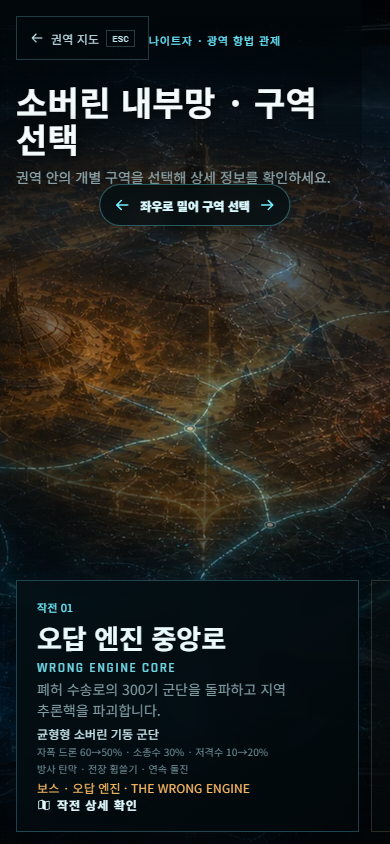
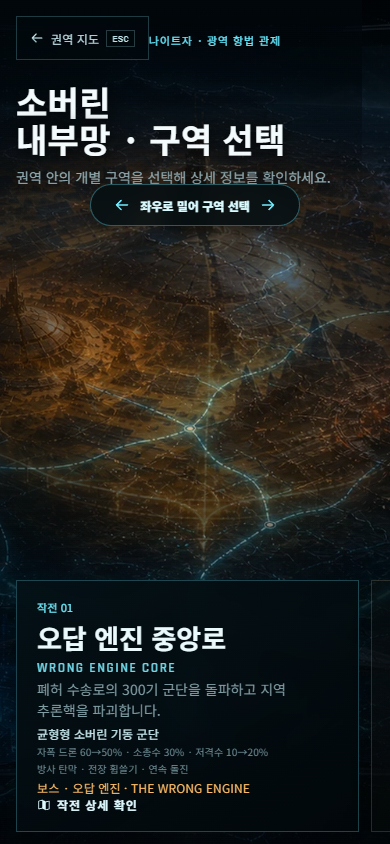
feat: separate desktop and mobile responsive ui

diff --git a/game/src/styles.css b/game/src/styles.css
@@ -5489,7 +5489,7 @@ kbd {
   .region-select-screen.is-cluster-map .region-select-heading h1 { font-size: 31px; }
   .region-map-hotspot { width: min(230px, 64vw); }
   .region-sortie-dialog { inset: max(8px, env(safe-area-inset-top)) 8px max(8px, env(safe-area-inset-bottom)); width: auto; max-width: none; overflow-y: auto; }
-  .region-sortie-layout { display: block; }
+  .region-sortie-layout { display: block; padding-bottom: 86px; }
   .region-sortie-command-footer { position: sticky; bottom: 0; padding-top: 9px; background: rgba(2, 10, 14, 0.96); }
   .region-sortie-command-footer .region-sortie-launch { width: 100%; min-height: 62px; }
 }
@@ -7505,7 +7505,7 @@ kbd,
 .region-sortie-intel { display: grid; margin: 22px 0 0; gap: 7px; }
 .region-sortie-intel > div { display: grid; min-height: 44px; padding: 9px 12px; grid-template-columns: 105px minmax(0, 1fr); align-items: center; gap: 12px; border-left: 2px solid rgba(106, 231, 250, 0.54); background: rgba(89, 211, 231, 0.055); }
 .region-sortie-intel dt { color: #71939a; font-size: 11px; }
-.region-sortie-intel dd { margin: 0; color: #e1eff2; font-size: 12px; line-height: 1.45; text-align: right; }
+.region-sortie-intel dd { margin: 0; color: #e1eff2; font-size: 12px; line-height: 1.45; text-align: right; word-break: keep-all; overflow-wrap: normal; }
 .region-sortie-rewards { display: flex; margin-top: 16px; padding: 11px 12px; flex-wrap: wrap; align-items: center; gap: 7px 12px; border: 1px solid rgba(255, 194, 100, 0.22); background: rgba(87, 52, 11, 0.2); }
 .region-sortie-rewards small { width: 100%; color: #bd9459; font-size: 10px; }
 .region-sortie-rewards span { color: #ffd18b; font-size: 12px; font-weight: 700; }
@@ -7850,7 +7850,7 @@ kbd,
 
 .region-sortie-briefing h2 { margin: 0; font-size: clamp(34px, 4vw, 58px); line-height: 0.98; letter-spacing: -0.035em; }
 .region-sortie-briefing > p { margin: 10px 0 0; color: #b8cbd0; font-size: 14px; line-height: 1.55; word-break: keep-all; }
-.region-sortie-briefing .region-sortie-intel { margin-top: 15px; grid-template-columns: repeat(2, minmax(0, 1fr)); }
+.region-sortie-briefing .region-sortie-intel { margin-top: 15px; grid-template-columns: 1fr; }
 .region-sortie-briefing .region-sortie-intel > div { min-height: 48px; grid-template-columns: 82px minmax(0, 1fr); }
 .region-sortie-briefing .region-sortie-intel > div:last-child:nth-child(odd) { grid-column: 1 / -1; }
 .region-sortie-briefing .region-sortie-rewards { margin-top: auto; }
@@ -8386,17 +8386,22 @@ kbd,
   .base-menu-button small { font-size: 10px !important; }
   .base-menu-button b { font-size: 14px; }
   .base-primary-actions { right: 10px; bottom: max(10px, env(safe-area-inset-bottom)); left: 10px; width: auto; grid-template-columns: 1fr 1fr; gap: 8px; }
+  .base-defense-action { grid-column: 1 / -1; }
   .base-character-action,
   .base-sortie-action,
   .base-defense-action { min-height: 74px; padding: 10px 12px; }
+  .base-character-action > svg:last-child,
+  .base-sortie-action > svg:last-child,
+  .base-defense-action > svg:last-child { display: none; }
   .base-primary-actions small,
   .base-defense-action small { font-size: 10px !important; }
   .base-primary-actions b,
-  .base-defense-action b { font-size: 14px; }
+  .base-defense-action b { font-size: 14px; white-space: nowrap; word-break: keep-all; }
   .home-base-screen .base-objective { display: none; }
 
   .region-select-screen.is-cluster-map .region-select-heading { width: calc(100% - 28px); margin-left: 14px; padding: max(16px, calc(env(safe-area-inset-top) + 10px)) 12px 13px; }
-  .region-select-screen.is-cluster-map .region-select-heading h1 { font-size: 34px; }
+  .region-select-screen .region-select-heading h1 { font-size: 34px; word-break: keep-all; overflow-wrap: normal; }
+  .region-select-screen .region-select-heading h1 > span { white-space: nowrap; }
   .region-map-hotspot { left: clamp(136px, var(--map-x), calc(100% - 136px)); top: clamp(190px, var(--map-y), calc(100% - 92px)); width: min(258px, 68vw); min-height: 86px; padding: 12px 34px 12px 60px; }
   .region-map-hotspot > i:first-child { left: -21px; width: 48px; height: 48px; }
   .region-map-hotspot > i:first-child::after { inset: 18px; }
@@ -8418,13 +8423,23 @@ kbd,
   .region-select-screen:not(.is-cluster-map) .region-card > b { font-size: 12px; }
   .region-select-screen:not(.is-cluster-map) .region-threat em { font-size: 10px; }
 
-  .region-sortie-dialog { inset: max(8px, env(safe-area-inset-top)) 8px max(8px, env(safe-area-inset-bottom)); width: auto; max-width: none; padding: 14px 14px max(14px, env(safe-area-inset-bottom)); overflow-y: auto; }
-  .region-sortie-layout { display: block; }
+  .region-sortie-dialog { position: fixed; inset: max(8px, env(safe-area-inset-top)) 8px max(8px, env(safe-area-inset-bottom)); width: auto; max-width: none; margin-left: 0; padding: 14px 14px max(14px, env(safe-area-inset-bottom)); overflow-y: auto; }
+  .region-sortie-layout { display: block; padding-bottom: 86px; }
   .campaign-shell .region-sortie-briefing h2 { font-size: 34px; }
   .campaign-shell .region-sortie-briefing > p { display: block; font-size: 14px; line-height: 1.5; -webkit-line-clamp: unset; }
+  .region-sortie-briefing .region-sortie-intel { grid-template-columns: 1fr; gap: 7px; }
+  .region-sortie-briefing .region-sortie-intel > div,
+  .region-sortie-briefing .region-sortie-intel > div:last-child:nth-child(odd) { min-height: 52px; padding: 9px 10px; grid-column: auto; grid-template-columns: 86px minmax(0, 1fr); gap: 10px; }
   .campaign-shell .region-sortie-intel dt,
   .campaign-shell .region-sortie-intel dd { font-size: 12px; }
-  .region-sortie-command-footer { position: sticky; bottom: 0; padding-top: 10px; background: rgba(2, 10, 14, 0.96); }
+  .campaign-shell .region-sortie-intel dd { word-break: keep-all; overflow-wrap: normal; }
+  .sortie-character-options { grid-template-columns: 1fr; }
+  .sortie-character-card strong,
+  .sortie-character-card p { word-break: keep-all; overflow-wrap: normal; }
+  .region-sortie-layout .sortie-weapon-card div em { display: none; }
+  .region-sortie-layout .sortie-weapon-card div strong { white-space: nowrap; word-break: keep-all; }
+  .region-sortie-command-footer { position: sticky; bottom: 0; display: block; padding-top: 10px; background: rgba(2, 10, 14, 0.96); }
+  .region-sortie-command-footer > span { display: none; }
   .region-sortie-command-footer .region-sortie-launch { width: 100%; min-height: 62px; font-size: 15px; }
 }
 
@@ -8464,9 +8479,11 @@ kbd,
     top: max(184px, calc(env(safe-area-inset-top) + 174px));
     left: 50%;
     display: flex;
+    min-width: 210px;
     min-height: 42px;
     padding: 8px 14px;
     align-items: center;
+    justify-content: center;
     gap: 10px;
     border: 1px solid rgba(102, 231, 249, 0.34);
     border-radius: 999px;
@@ -8475,6 +8492,7 @@ kbd,
     box-shadow: 0 8px 24px rgba(0, 0, 0, 0.42);
     font-size: 12px;
     font-weight: 800;
+    white-space: nowrap;
     transform: translateX(-50%);
     pointer-events: none;
     backdrop-filter: blur(8px);
@@ -8505,4 +8523,30 @@ kbd,
   .region-sortie-close { min-height: 48px; padding: 9px 12px; font-size: 13px; }
   .region-sortie-close kbd { display: none; }
   .region-sortie-dialog { overscroll-behavior: contain; -webkit-overflow-scrolling: touch; }
+}
+
+@media (max-width: 340px) and (orientation: portrait) {
+  .region-select-screen .region-select-heading h1 { font-size: 31px; }
+}
+
+/* Fine-pointer desktop guard -------------------------------------------
+   Short desktop windows may compact geometry, but never inherit phone
+   typography. This keeps PC and touch layouts as independent UI systems. */
+@media (min-width: 981px) and (max-height: 640px) and (pointer: fine) {
+  .campaign-shell.campaign-shell small { font-size: max(9px, 0.62rem); }
+  .campaign-shell.campaign-shell p,
+  .campaign-shell.campaign-shell li,
+  .campaign-shell.campaign-shell dt,
+  .campaign-shell.campaign-shell dd { font-size: max(11px, 0.72rem); line-height: 1.42; }
+  .campaign-shell.campaign-shell button { font-size: max(11px, 0.72rem); }
+  .campaign-back { min-height: 38px; padding: 7px 11px; }
+  .region-sortie-close { min-height: 36px; font-size: 11px; }
+  .region-sortie-briefing > p { font-size: 11px; line-height: 1.42; }
+  .region-sortie-briefing .region-sortie-intel dt,
+  .region-sortie-briefing .region-sortie-intel dd { font-size: 10px; }
+  .region-sortie-layout .sortie-weapon-card div small,
+  .region-sortie-layout .sortie-weapon-card div em,
+  .region-sortie-layout .sortie-weapon-card footer { font-size: 9px; }
+  .region-sortie-layout .sortie-weapon-card div strong { font-size: 14px; }
+  .region-sortie-command-footer > span { font-size: 10px; }
 }

diff --git a/game/src/ui/campaign/CampaignScreens.jsx b/game/src/ui/campaign/CampaignScreens.jsx
@@ -843,7 +843,7 @@ export function RegionSelectScreen({ regions, clusters = [], campaign, assets, w
       <header className="region-select-heading">
         <button type="button" className="campaign-back" data-ui-sound="uiClose" onClick={selectedCluster ? () => setSelectedClusterId(null) : onBack}><ArrowLeft weight="bold" /> {selectedCluster ? "권역 지도" : "기지"} <kbd>ESC</kbd></button>
         <small>나이트자 · 광역 항법 관제</small>
-        <h1>{selectedCluster ? `${selectedCluster.koreanName} · 구역 선택` : "작전 권역 선택"}</h1>
+        <h1>{selectedCluster ? <>{selectedCluster.koreanName}<span> · 구역 선택</span></> : "작전 권역 선택"}</h1>
         <p>{selectedCluster ? "권역 안의 개별 구역을 선택해 상세 정보를 확인하세요." : "먼저 3개 구역이 묶인 상위 권역을 선택하세요."}</p>
       </header>
       {selectedCluster && !selectedRegion && (

diff --git a/game/AGENTS.md b/game/AGENTS.md
@@ -62,6 +62,7 @@ Build app UI in `src/`. Keep `.openai/hosting.json`, `worker/index.js`, `scripts
 - On phone portrait, movement owns the otherwise empty combat surface while buttons/dialogs remain excluded from joystick capture. Level-up and result overlays must fit within `100dvh` using bounded internal scrolling; reward cards become a readable vertical list, result actions may stack, and narrative advancement keeps a visible Korean label with at least a 50px touch height. Keep the HP bar and six compact active controls above the bottom safe area, and keep the tactical minimap below the top objective without covering combat buttons.
 - Phone portrait menus are authored surfaces, never scaled desktop compositions. Keep the title at 58px or larger, primary touch targets at least 44px high, save slots in one readable column, world-map hotspots at least 250px wide with 18px or larger names, and regional detail cards as horizontally snapping single-card pages. Portrait combat fills `100dvh` without letterboxing, uses a presentation-only 1.12 route/1.06 boss camera factor, keeps the objective at 16px or larger, and shows the Korean ability names beneath the bottom icons. These presentation values must not alter the deterministic simulation, collision, spawn, aim, or damage rules.
 - Phone portrait must explain its own touch controls instead of showing WASD/mouse copy. Keep a visible 48px-or-larger pause control beside sound, single-column pause actions with unbroken Korean labels, and an explicit swipe affordance above horizontally snapping regional cards. Optional vibration feedback may acknowledge dash, tag, active skills, pause, and resume only on coarse-pointer devices; unsupported browsers must remain a silent no-op.
+- Treat fine-pointer desktop and coarse-pointer phone layouts as independent authored interfaces, not one height-scaled composition. A short desktop window may compact spacing but must retain readable desktop typography; height-only media queries must not reduce PC campaign text to phone-scale labels. On portrait phones, keep Korean headings and action names at word boundaries, use `2 + 1 full-width` lobby commands, render sortie intel and the unlocked-character list in one column, and keep the sticky sortie confirmation at full panel width. The mobile sortie dialog is viewport-fixed so horizontal card scrolling can never displace it outside the safe area.
 - Runtime raster assets must stay display-size optimized. Preserve full-resolution sources under `reference/source-assets/` instead of loading them into the game or copying unused images into the production build.
 - Phaser remains combat-entry dynamic-loaded. `BootScene` may register only `COMMON_GAME_ASSETS` plus the selected route returned by `getGameAssetsForRegion(selectedRegionId)`; load `getBossGameAssetsForRegion(selectedRegionId)` only when the automatic clear warning/panic transition begins, never while hostiles remain. The chapter-1 trace atlas is wrong-engine-only and missing regional IDs fall back safely. Preserve the non-overlapping Vite chunks for `phaser-vendor`, `overload-runtime`, `overload-view`, `overload-simulation`, and `overload-assets`; do not collapse them back into the former approximately 1.8MB `createOverloadGame` chunk or modulepreload Phaser on the title screen.
 - Maintain adaptive `CINEMATIC / BALANCED / PERFORMANCE` presentation tiers with live frame-time hysteresis while the authoritative simulation remains a deterministic 60Hz fixed step. Keep the logical/CSS game coordinate space at 1280×720; use CINEMATIC 1280×720 at 60fps, BALANCED 1050×590 at 45fps, and PERFORMANCE 896×504 at 30fps for WebGL backing size and presentation cadence. A lower render cadence must never reduce input sampling, combat ticks, collision frequency, spawn timing, cooldown timing, or boss geometry updates.

diff --git a/game/design-qa.md b/game/design-qa.md
@@ -847,3 +847,21 @@ final result: passed
   지침에 따라 실행하지 않았습니다.
 
 final result: passed
+
+### Iteration 37 — complete · PC/모바일 독립 반응형 계층과 한글 가독성
+
+- Independent responsive systems: 세로 모바일과 fine-pointer PC의 마지막 CSS 계층을 분리했습니다.
+  1440×600처럼 높이가 짧은 PC도 모바일 8px 축소 타이포그래피를 상속하지 않으며, 캠페인 본문은
+  11px 이상, 뒤로가기/닫기 버튼은 36–38px 이상으로 유지합니다.
+- Portrait readability: 기지 명령을 2열 + 전체 폭 디펜스로 재배치하고 장식용 후행 아이콘을 숨겨
+  세 명령명을 한 줄로 유지했습니다. 권역 제목의 `· 구역 선택`을 의미 단위로 묶고 320px에서는
+  31px 제목을 사용합니다. 출격 상세의 정보표와 캐릭터 편성을 한 열로 전환하고 무기 영문 보조명을
+  숨겨 한글 이름을 우선했으며, 전체 폭 출격 버튼과 86px 스크롤 여유를 확보했습니다.
+- Essential verification: 모바일/캠페인 집중 테스트 14/14와 TypeScript 검사가 통과했습니다.
+  Edge에서 320×700, 360×800, 390×844 세로 모바일과 1440×600/1440×810 PC를 직접 조작했습니다.
+  360px 홈 명령은 모두 20px 높이 한 줄, 출격 정보는 최대 두 줄, 단일 캐릭터 카드는 298px,
+  출격 버튼은 314px 전체 폭이었고 가로 overflow와 console/page 오류는 모두 0이었습니다. 320px
+  상세창은 viewport 기준 `(8, 8)–(312, 692)` 안에 고정됐습니다. 전체 테스트와 production build는
+  사용자 지침에 따라 실행하지 않았습니다.
+
+final result: passed

diff --git a/game/README.md b/game/README.md
@@ -207,7 +207,12 @@ HAVEN-09 NPC 대화는 `Space`를 한 번 누를 때 한 줄씩 진행하고 마
 안내를 표시합니다. 전투 우상단에는 48px 일시정지 버튼을 항상 제공하며, 세로 일시정지 메뉴는
 줄바꿈 없는 한 열 버튼으로 구성합니다. 지원하는 터치 기기에서는 대시·태그·스킬·일시정지 입력에만
 짧은 진동 피드백을 제공하고 진동 API가 없는 브라우저에서는 조용히 생략합니다.
-데스크톱의 포인터 직접 조준과 가로 화면 지원은 그대로 유지합니다.
+기지 하단 명령은 모바일에서 두 개의 주요 명령과 한 줄 전체 폭 디펜스 명령으로 재배치하고,
+출격 상세의 작전 정보와 해금 캐릭터는 한 열로 표시합니다. 한국어 제목·버튼은 음절 단위로
+쪼개지지 않으며 하단 출격 승인은 중복 설명을 숨긴 전체 폭 버튼으로 유지됩니다. 상세창은 가로
+카드의 스크롤 위치와 무관하게 모바일 안전 영역에 고정됩니다. 데스크톱은 별도의 fine-pointer
+레이아웃을 사용해 창 높이가 낮아져도 모바일용 초소형 글꼴을 물려받지 않으며, 포인터 직접 조준과
+가로 화면 지원을 그대로 유지합니다.
 
 향후 Android/iOS 네이티브 패키징, 스토어 심사, 저장소·오디오·생명주기 어댑터 계획은
 [`docs/mobile-app-release-roadmap.md`](docs/mobile-app-release-roadmap.md)에 정리했습니다.
